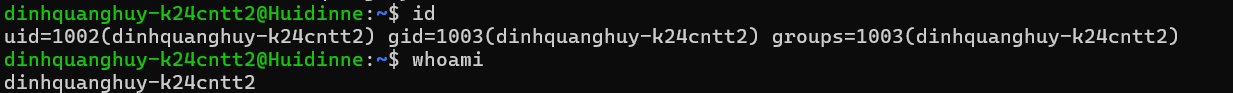
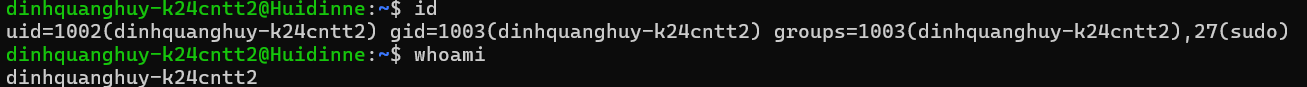
done

Changed region(s): [[0.0, 0.0, 0.9862, 0.5057], [0.0, 0.5287, 0.4006, 0.7586], [0.0, 0.8046, 0.2157, 1.0]]

diff --git a/README.md b/README.md
@@ -3,7 +3,7 @@
 ## 1. Thông tin sinh viên
 | Họ và tên      | MSSV       | Lớp      | Tài khoản Linux       | GitHub   | Cổng Nginx |
 |----------------|------------|----------|-----------------------|----------|------------|
-| Đinh Quang Huy | B24DTCN230 | K24CNTT2 | dinhquanghuy-k24cntt2 | Huidinne | 8081       |
+| Đinh Quang Huy | B24DTCN230 | K24CNTT2 | dinhquanghuy-k24cntt2 | Huidinne | 8082       |
 
 ## 2. Môi trường triển khai
 - hệ điều hành: Ubuntu 22.04
@@ -58,7 +58,8 @@ server {
 4. Cấu hình github, đẩy mã nguồn lên github
 5. Cấu hình UFW, triển khai website vói nginx
 
-## 7. Hình ảnh website
+## 7. Hình ảnh website và minh chứng git
+![img.png](screenshots/05-git-log.png)
 ![img.png](screenshots/04-website.png)
 
 ## 8. Quy trình cập nhật website
